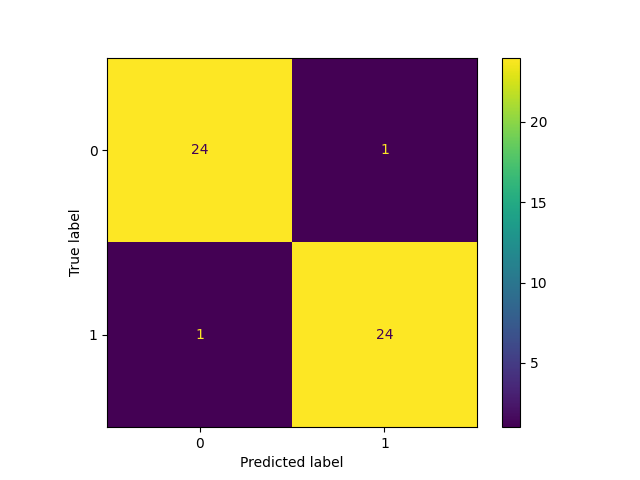
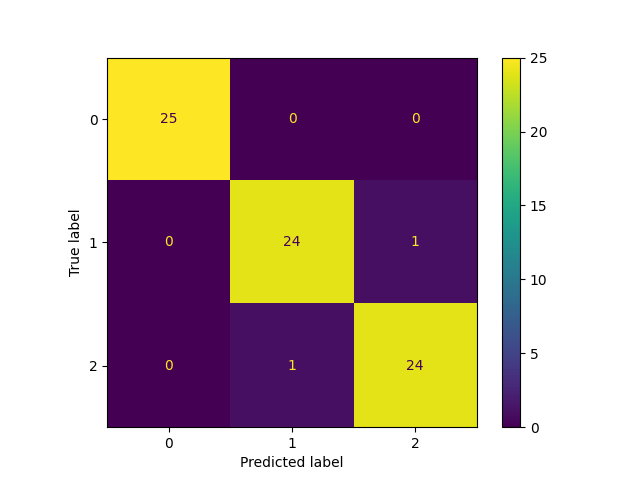
flowers

diff --git a/flower classification/flowerClassify.py b/flower classification/flowerClassify.py
@@ -6,8 +6,9 @@ from sklearn.metrics import confusion_matrix, ConfusionMatrixDisplay
 from sklearn.model_selection import GridSearchCV
 
 flowerDataSet = pd.read_csv("IRIS.csv")
-notSetosaTrain = flowerDataSet.query("species != 'Iris-setosa'").iloc[0::2]
-notSetosaTest = flowerDataSet.query("species != 'Iris-setosa'").iloc[1::2]
+notSetosaTrain = flowerDataSet.iloc[0::2]
+notSetosaTest = flowerDataSet.iloc[1::2]
+print(flowerDataSet.shape)
 
 x = notSetosaTrain[["sepal_length", "sepal_width", "petal_length", "petal_width"]]
 y = notSetosaTrain["species"]
